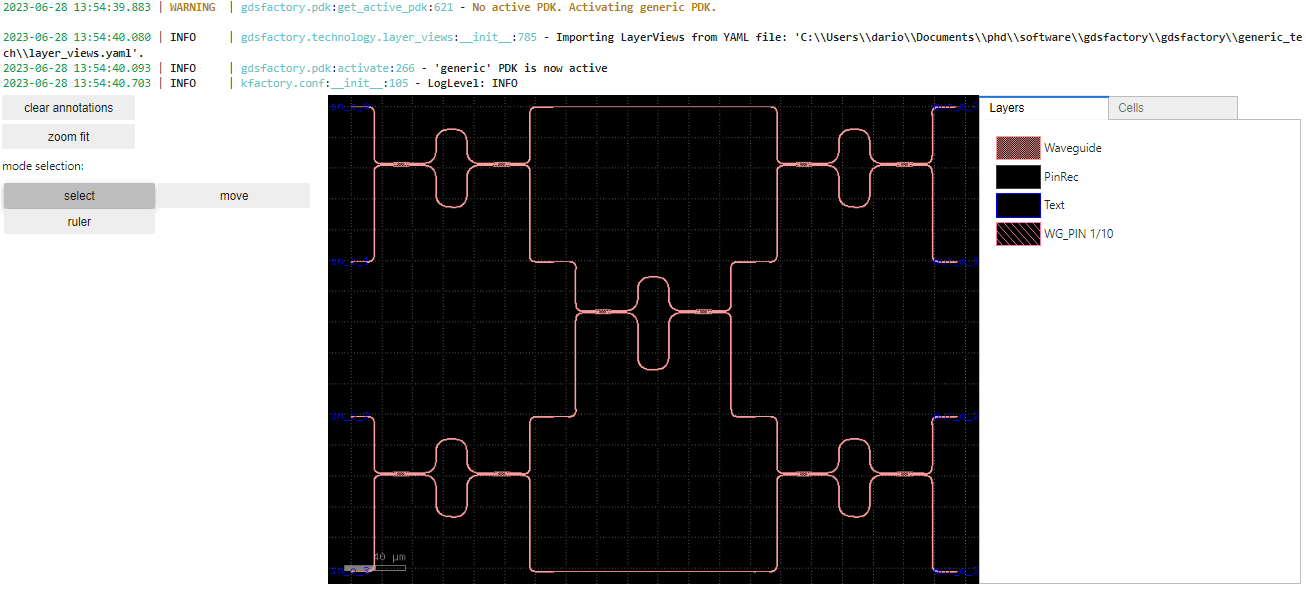
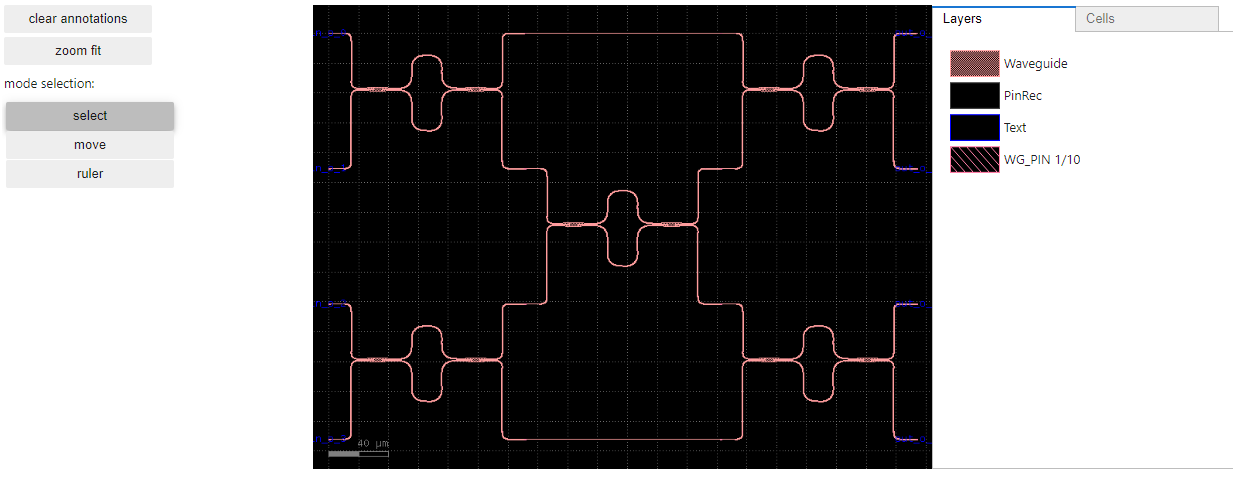
FEAT: sax model mapping

Changed region(s): [[0.0, 0.0, 1.0, 0.9677], [0.339, 0.8468, 0.3698, 0.877], [0.1541, 0.3024, 0.1849, 0.3327]]

diff --git a/docs/examples/03_sax_basics.py b/docs/examples/03_sax_basics.py
@@ -11,9 +11,20 @@
 # We begin by importing a parametric circuit from `gdsfactory`:
 import gdsfactory as gf
 from gdsfactory.components import mzi2x2_2x2_phase_shifter, mzi2x2_2x2
+import sax
 
-switch_circuit = gf.components.component_lattice_generic()
+# We create a balanced MZI lattice full of the same `mzi2x2_2x2` components to demonstrate `sax` network basics.
+
+# +
+balanced_mzi_lattice = [
+    [mzi2x2_2x2(), 0, mzi2x2_2x2()],
+    [0, mzi2x2_2x2(), 0],
+    [mzi2x2_2x2(), 0, mzi2x2_2x2()],
+]
+
+switch_circuit = gf.components.component_lattice_generic(network=balanced_mzi_lattice)
 switch_circuit.plot_widget()
+# -
 
 # ![img](../_static/img/examples/03_sax_basics/default_switch_circuit_plot_widget.PNG)
 
@@ -22,11 +33,6 @@ switch_circuit.plot_widget()
 # There are several ways to extract and model a photonic circuit such as this one using `gdsfactory`
 
 top_level_netlist = switch_circuit.get_netlist()
-
-# We could do the same thing for our individual components
-
-mzi2x2_netlist = mzi2x2_2x2().get_netlist()
-mzi2x2_netlist["instances"].keys()
 
 # ```
 # dict_keys(['bend_euler_1', 'bend_euler_2', 'bend_euler_3', 'bend_euler_4', 'bend_euler_5', 'bend_euler_6', 'bend_euler_7', 'bend_euler_8', 'cp1', 'cp2', 'straight_10', 'straight_5', 'straight_6', 'straight_7', 'straight_8', 'straight_9', 'sxb', 'sxt', 'syl', 'sytl'])
@@ -40,10 +46,16 @@ top_level_netlist["instances"].keys()
 # dict_keys(['bend_euler_1', 'bend_euler_10', 'bend_euler_11', 'bend_euler_12', 'bend_euler_13', 'bend_euler_14', 'bend_euler_15', 'bend_euler_16', 'bend_euler_17', 'bend_euler_18', 'bend_euler_19', 'bend_euler_2', 'bend_euler_20', 'bend_euler_21', 'bend_euler_22', 'bend_euler_23', 'bend_euler_24', 'bend_euler_25', 'bend_euler_26', 'bend_euler_27', 'bend_euler_28', 'bend_euler_29', 'bend_euler_3', 'bend_euler_30', 'bend_euler_31', 'bend_euler_32', 'bend_euler_33', 'bend_euler_34', 'bend_euler_35', 'bend_euler_36', 'bend_euler_37', 'bend_euler_38', 'bend_euler_39', 'bend_euler_4', 'bend_euler_40', 'bend_euler_5', 'bend_euler_6', 'bend_euler_7', 'bend_euler_8', 'bend_euler_9', 'mzi_1', 'mzi_2', 'mzi_3', 'mzi_4', 'mzi_5', 'straight_1', 'straight_10', 'straight_11', 'straight_12', 'straight_13', 'straight_14', 'straight_15', 'straight_16', 'straight_17', 'straight_18', 'straight_19', 'straight_2', 'straight_20', 'straight_21', 'straight_22', 'straight_23', 'straight_24', 'straight_25', 'straight_26', 'straight_27', 'straight_28', 'straight_29', 'straight_3', 'straight_30', 'straight_31', 'straight_32', 'straight_33', 'straight_34', 'straight_35', 'straight_36', 'straight_37', 'straight_38', 'straight_39', 'straight_4', 'straight_40', 'straight_41', 'straight_42', 'straight_43', 'straight_44', 'straight_45', 'straight_46', 'straight_47', 'straight_48', 'straight_49', 'straight_5', 'straight_50', 'straight_51', 'straight_52', 'straight_53', 'straight_54', 'straight_55', 'straight_56', 'straight_57', 'straight_58', 'straight_59', 'straight_6', 'straight_60', 'straight_61', 'straight_62', 'straight_63', 'straight_64', 'straight_65', 'straight_66', 'straight_67', 'straight_68', 'straight_69', 'straight_7', 'straight_70', 'straight_71', 'straight_72', 'straight_73', 'straight_74', 'straight_75', 'straight_76', 'straight_77', 'straight_78', 'straight_8', 'straight_9'])
 # ```
 
-# This is equivalent to extract a netlist recursively to the lower element levels on our component
+# Likewise the ports, note that there is a clear definition of the input and output ports numbered based on the ports top-down row endian.
+
+top_level_netlist["ports"].keys()
+
+# This is equivalent to extract a netlist recursively to the lower element levels on our component, just that with the recursive netlist we have a multi-component netlist list down to the deepest level, and allows us to model very thoroughly our circuit. It is this
 
 recursive_netlist = switch_circuit.get_netlist_recursive()
-recursive_netlist["component_lattice_generic"]["instances"].keys()
+recursive_netlist.keys()
+
+recursive_netlist[list(recursive_netlist.keys())[0]]["instances"].keys()
 
 # We can also extract a flat netlist
 
@@ -51,13 +63,36 @@ flat_netlist_keys = switch_circuit.get_netlist_flat()["instances"].keys()
 
 # Understanding the photonic netlisting functions are important when actively mapping our component models to these functions.
 
+# ### Individual Components
+
+# We could do the same thing for our individual components. For now, we only care about the optical ports to model the frequency networking.
+
+mzi2x2_netlist = mzi2x2_2x2().get_netlist(exclude_port_types="electrical")
+mzi2x2_netlist["instances"].keys()
+
+# You can get an idea of the component ports
+
+mzi2x2_netlist["ports"].keys()
+
+# Worth noting that in this model it is defined by passive models, whereas ours above has composite components, and this is dependent on the netlisting function and implementation.
+#
+# We have contributed to `sax` in order to `piel` provides some functionality to extract the base models that we require to define:
+
+sax.get_required_circuit_models(mzi2x2_netlist)
+
+# ```
+# ['bend_euler', 'mmi2x2', 'straight']
+# ```
+
+# `piel` provides a library with a list of models, that we hope we can extend and improve with your contribution! We create our model dictionary accordingly
+
 # ### Basic Models
 
 # We will now include a basic list of models to do a `sax` s-parameter network simulation of the circuit. Based on the [layout-aware sax example](https://flaport.github.io/sax/examples/07_layout_aware.html), the `models` are a dictionary that maps the instance name to a functional `s-parameter` representation of the circuit.
 #
 # `piel` conveniently provides a library of component models that can be used to co-simulate electronic and photonic systems.
 
-# Now we need to include our device models, we will start with basic ones and expand from that.
+# Now we need to include our device models, we will start with basic ones and expand from that. It is easy to create some models as the components are all the in this default example.
 
 
 # ## Active Generic Controlled Lattice
@@ -82,9 +117,19 @@ mixed_switch_circuit.plot_widget()
 
 # ![img](../_static/img/examples/03_sax_basics/switch_circuit_plot_widget.PNG)
 
-mixed_switch_circuit_netlist = mixed_switch_circuit.get_netlist()
+mixed_switch_circuit_netlist = mixed_switch_circuit.get_netlist(
+    exclude_port_types="electrical"
+)
 mixed_switch_circuit_netlist["instances"].keys()
 
 # ```
 # dict_keys(['bend_euler_1', 'bend_euler_10', 'bend_euler_11', 'bend_euler_12', 'bend_euler_13', 'bend_euler_14', 'bend_euler_15', 'bend_euler_16', 'bend_euler_17', 'bend_euler_18', 'bend_euler_19', 'bend_euler_2', 'bend_euler_20', 'bend_euler_21', 'bend_euler_22', 'bend_euler_23', 'bend_euler_24', 'bend_euler_25', 'bend_euler_26', 'bend_euler_27', 'bend_euler_28', 'bend_euler_29', 'bend_euler_3', 'bend_euler_30', 'bend_euler_31', 'bend_euler_32', 'bend_euler_33', 'bend_euler_34', 'bend_euler_35', 'bend_euler_36', 'bend_euler_37', 'bend_euler_38', 'bend_euler_39', 'bend_euler_4', 'bend_euler_40', 'bend_euler_5', 'bend_euler_6', 'bend_euler_7', 'bend_euler_8', 'bend_euler_9', 'mzi_1', 'mzi_2', 'mzi_3', 'mzi_4', 'mzi_5', 'straight_1', 'straight_10', 'straight_11', 'straight_12', 'straight_13', 'straight_14', 'straight_15', 'straight_16', 'straight_17', 'straight_18', 'straight_19', 'straight_2', 'straight_20', 'straight_21', 'straight_22', 'straight_23', 'straight_24', 'straight_25', 'straight_26', 'straight_27', 'straight_28', 'straight_29', 'straight_3', 'straight_30', 'straight_31', 'straight_32', 'straight_33', 'straight_34', 'straight_35', 'straight_36', 'straight_37', 'straight_38', 'straight_39', 'straight_4', 'straight_40', 'straight_41', 'straight_42', 'straight_43', 'straight_44', 'straight_45', 'straight_46', 'straight_47', 'straight_48', 'straight_49', 'straight_5', 'straight_50', 'straight_51', 'straight_52', 'straight_53', 'straight_54', 'straight_55', 'straight_56', 'straight_57', 'straight_58', 'straight_59', 'straight_6', 'straight_60', 'straight_61', 'straight_62', 'straight_63', 'straight_64', 'straight_65', 'straight_66', 'straight_67', 'straight_68', 'straight_69', 'straight_7', 'straight_70', 'straight_71', 'straight_72', 'straight_73', 'straight_74', 'straight_75', 'straight_76', 'straight_77', 'straight_78', 'straight_8', 'straight_9'])
 # ```
+
+mixed_switch_circuit_netlist["ports"].keys()
+
+# To extract the connectivity data
+
+# + active=""
+# mixed_switch_circuit_netlist["connections"]
+# -

diff --git a/piel/sax/utils.py b/piel/sax/utils.py
@@ -3,14 +3,17 @@ This file provides a set of utilities that allow much easier integration between
 """
 
 
-def get_common_netlist_instance_keys() -> list:
-    """
-    Get the common netlist instance keys for a given netlist.
-
-    Returns:
-        list: List of common netlist instance keys.
-    """
-    pass
-
-
-__all__ = ["get_common_netlist_instance_keys"]
+# def get_common_netlist_instance_keys(
+#     netlist: dict,
+# ) -> list:
+#     """
+#     Get the common netlist instance keys for a given netlist.
+#
+#     Returns:
+#         list: List of common netlist instance keys.
+#     """
+#     instances_list = netlist["instances"].keys()
+#     pass
+#
+#
+# __all__ = ["get_common_netlist_instance_keys"]

diff --git a/piel/models/__init__.py b/piel/models/__init__.py
@@ -2,3 +2,5 @@ from piel.models import frequency  # NOQA: F401
 from piel.models import logic  # NOQA: F401
 from piel.models import physical  # NOQA: F401
 from piel.models import transient  # NOQA: F401
+
+from .utils import *

diff --git a/docs/sections/tools/dependencies/sax.rst b/docs/sections/tools/dependencies/sax.rst
@@ -1,0 +1,47 @@
+``sax``
+=======
+
+Implementation Principle
+------------------------
+
+The methodology of interconnection between photonics and electronics
+design can be done in the time and frequency domain. However, one of the
+most basic simulation implementations is determining how an electronic
+system implements a photonic operation. This means, for a given mapping
+between an electronic signal to a photonic one, how does the full
+photonic system change?
+
+This is where frequency domain solver tools like ``sax`` come into play
+for photonics.
+
+One pseudo electronic-photonic simulation currently available has been
+demonstrated in `PhotonTorch
+09_XOR_task_with_MZI <https://docs.photontorch.com/examples/09_XOR_task_with_MZI.html>`__.
+We want to extend this type of functionality into a co-design between
+electronic and photonic tools.
+
+Pseudo-Static Active Models
+-------------------------------
+One of the main principles of ``sax`` is that we can create models that allow us to simulate the frequency-domain response of the input and output. In our case, as we want to simulate the interface of electronics and photonics, we want models that we can see how the input-output varies based on the electrical signal control provided. However, as ``sax`` is a frequency-domain solver, we can not just implement time-dependent active control.
+
+The first implementation proposed in ``piel`` is a pseudo-static implementation of ``sax`` models, whose model evaluation is dependent on a set of controlled-phase parameters for a physical circuit. This can be then interconnected with the asynchronous electrical models in ``cocotb`` through some analog or digital signal-to-phase mapping.
+
+Another aspect that we want to make sure we are modelling is the variability of each of our interconnected photonic and electronic components. Not all photonic electro-optic phase shifters are the same, neither are the electronic drivers, neither are the bends, or multi-mode waveguides, or so on. Each can be different.
+
+GDSFactory is a functional implementation of circuit design and physical parameterised devices can be easily created.
+
+Implementation
+~~~~~~~~~~~~~~~
+A ``sax`` circuit is a "component model function" such as the ones we define for our instances. This means that we can functionally evaluate variations in our parameters by just evaluating the ``sax`` circuit function with our component parameters. This evaluation tends to be in the order of `ms` whereas the circuit composition tends to be in a larger order of magnitude depending on complexity. In ``sax`` documentation words:
+
+.. epigraph::
+    The ``circuit`` function just creates a similar function as we created for the waveguide and the coupler, but instead of taking parameters directly it takes parameter dictionaries for each of the instances in the circuit. The keys in these parameter dictionaries should correspond to the keyword arguments of each individual subcomponent.
+
+
+
+
+API
+------
+
+.. toctree::
+    ../../../autoapi/piel/sax/index.rst

diff --git a/docs/sections/tools/index.rst b/docs/sections/tools/index.rst
@@ -1,7 +1,7 @@
 Tools
 ==================
 
-`piel` aims to provide an integrated workflow to co-design photonics and electronics. It does not aim to replace the individual functionality of each design tool, but rather provide a glue to easily connect them all together and extract the system performance.
+``piel`` aims to provide an integrated workflow to co-design photonics and electronics. It does not aim to replace the individual functionality of each design tool, but rather provide a glue to easily connect them all together and extract the system performance.
 
 
 .. toctree::
@@ -9,5 +9,5 @@ Tools
     :caption: Contents:
 
     overview
-    projects/index
+    dependencies/index
     integration/index

diff --git a/docs/sections/tools/dependencies/index.rst b/docs/sections/tools/dependencies/index.rst
@@ -1,5 +1,5 @@
-Projects
-==================
+Dependency Bindings
+======================
 
 .. toctree::
     :maxdepth: 2

diff --git a/docs/sections/components/overview.md b/docs/sections/components/overview.md
@@ -1,1 +1,3 @@
 # Overview
+
+Work in progress. Abstract connectivity components.
